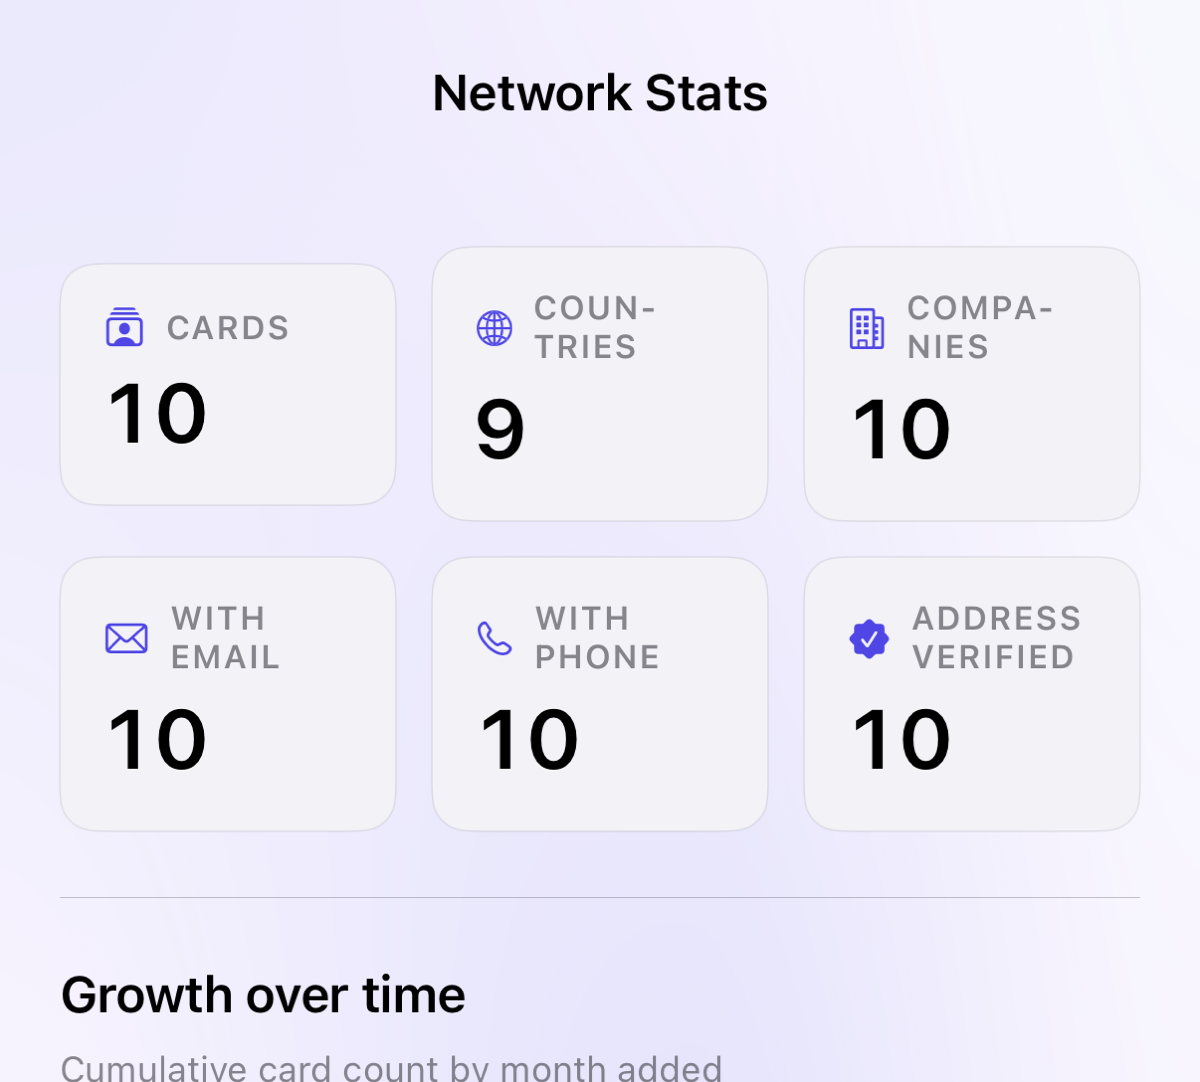
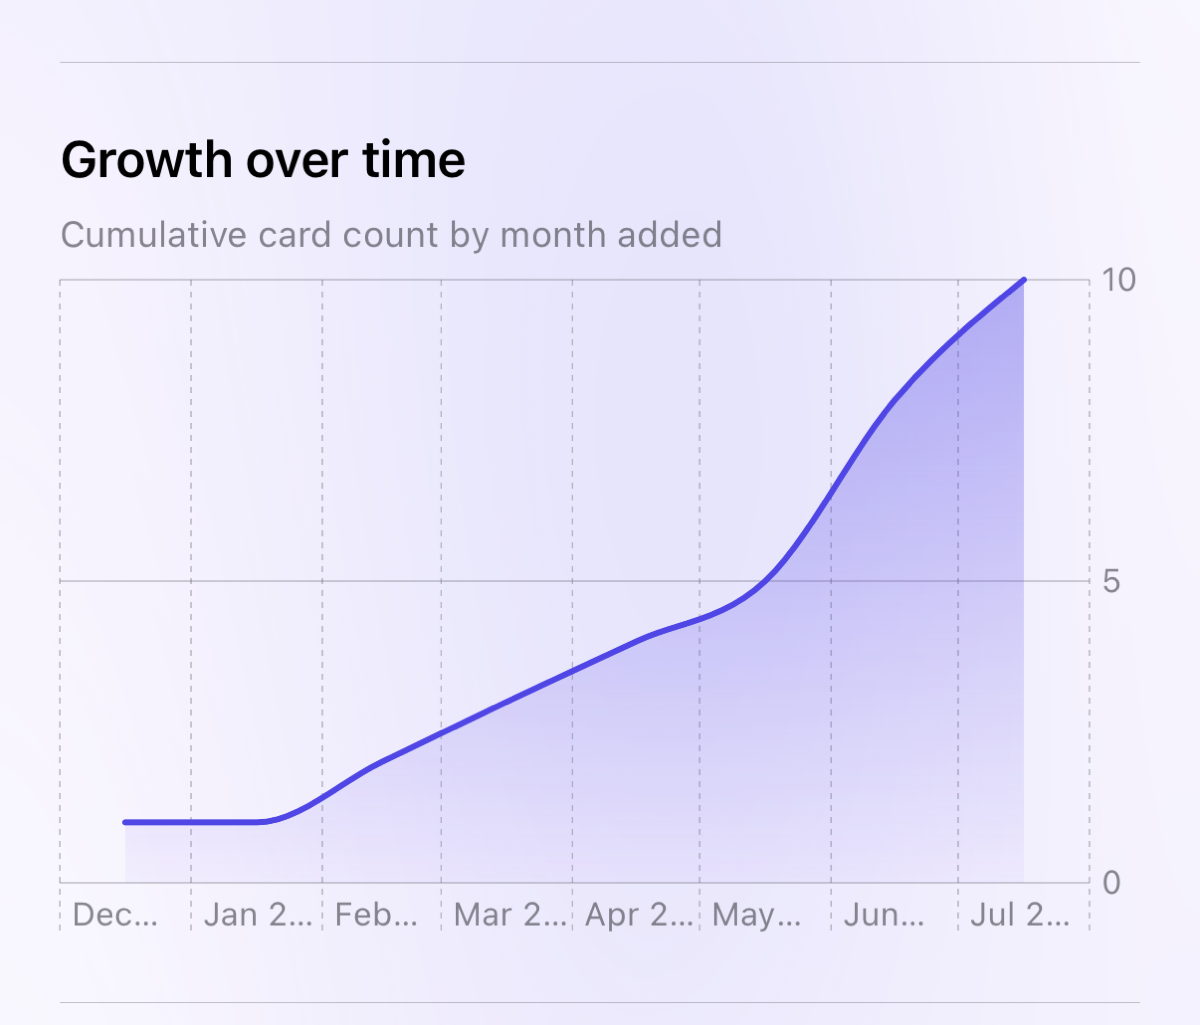
Site: stats cell shows the growth chart — the tile crop read as an empty box

diff --git a/index.html b/index.html
@@ -240,7 +240,7 @@
         <div class="cell cell-stats reveal" style="--d:0.1s">
           <h3>See who you know — and where.</h3>
           <p>Contacts on a world map, industries and countries at a glance, growth over time. Search filters like <i>Industry: Finance</i>.</p>
-          <img class="stats-img" src="assets/stats.png" alt="cardlio network statistics with contact counts by country and company and a growth-over-time chart" loading="lazy">
+          <img class="stats-img" src="assets/stats.png" alt="cardlio network statistics showing cumulative growth of your contacts over time" loading="lazy">
         </div>
         <div class="cell cell-addr reveal" style="--d:0.18s">
           <h3>Addresses from any country.</h3>
